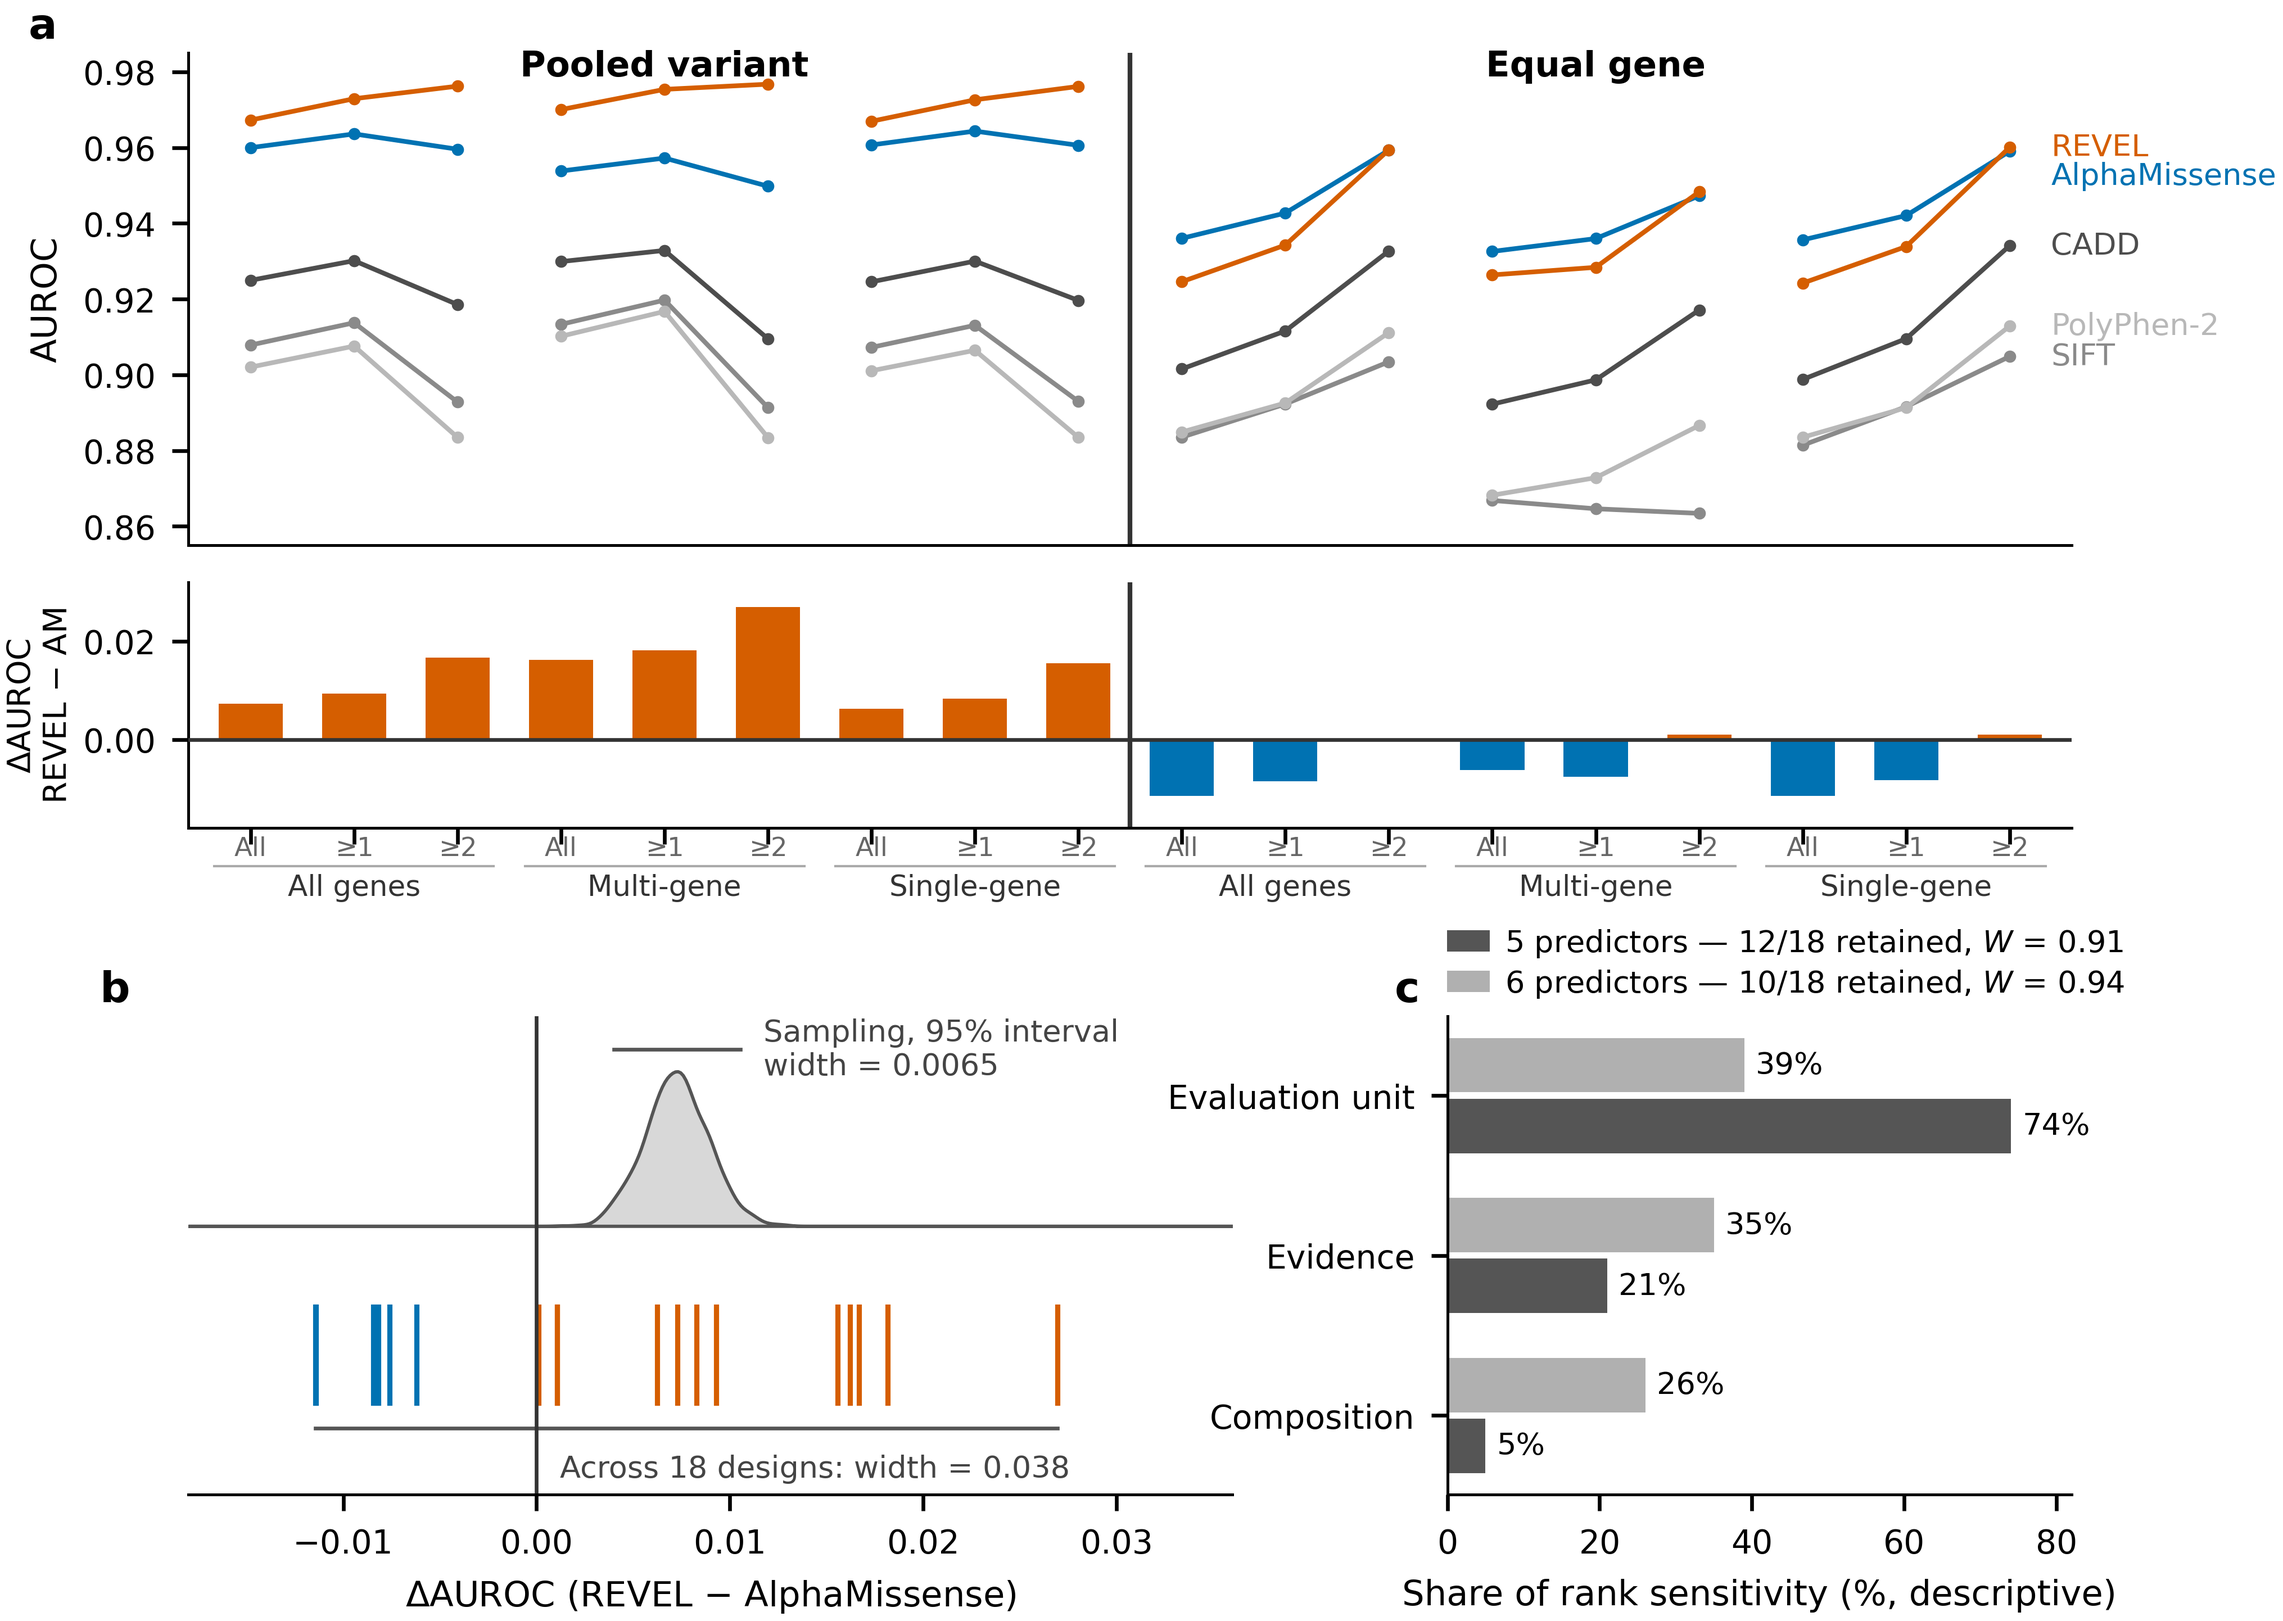
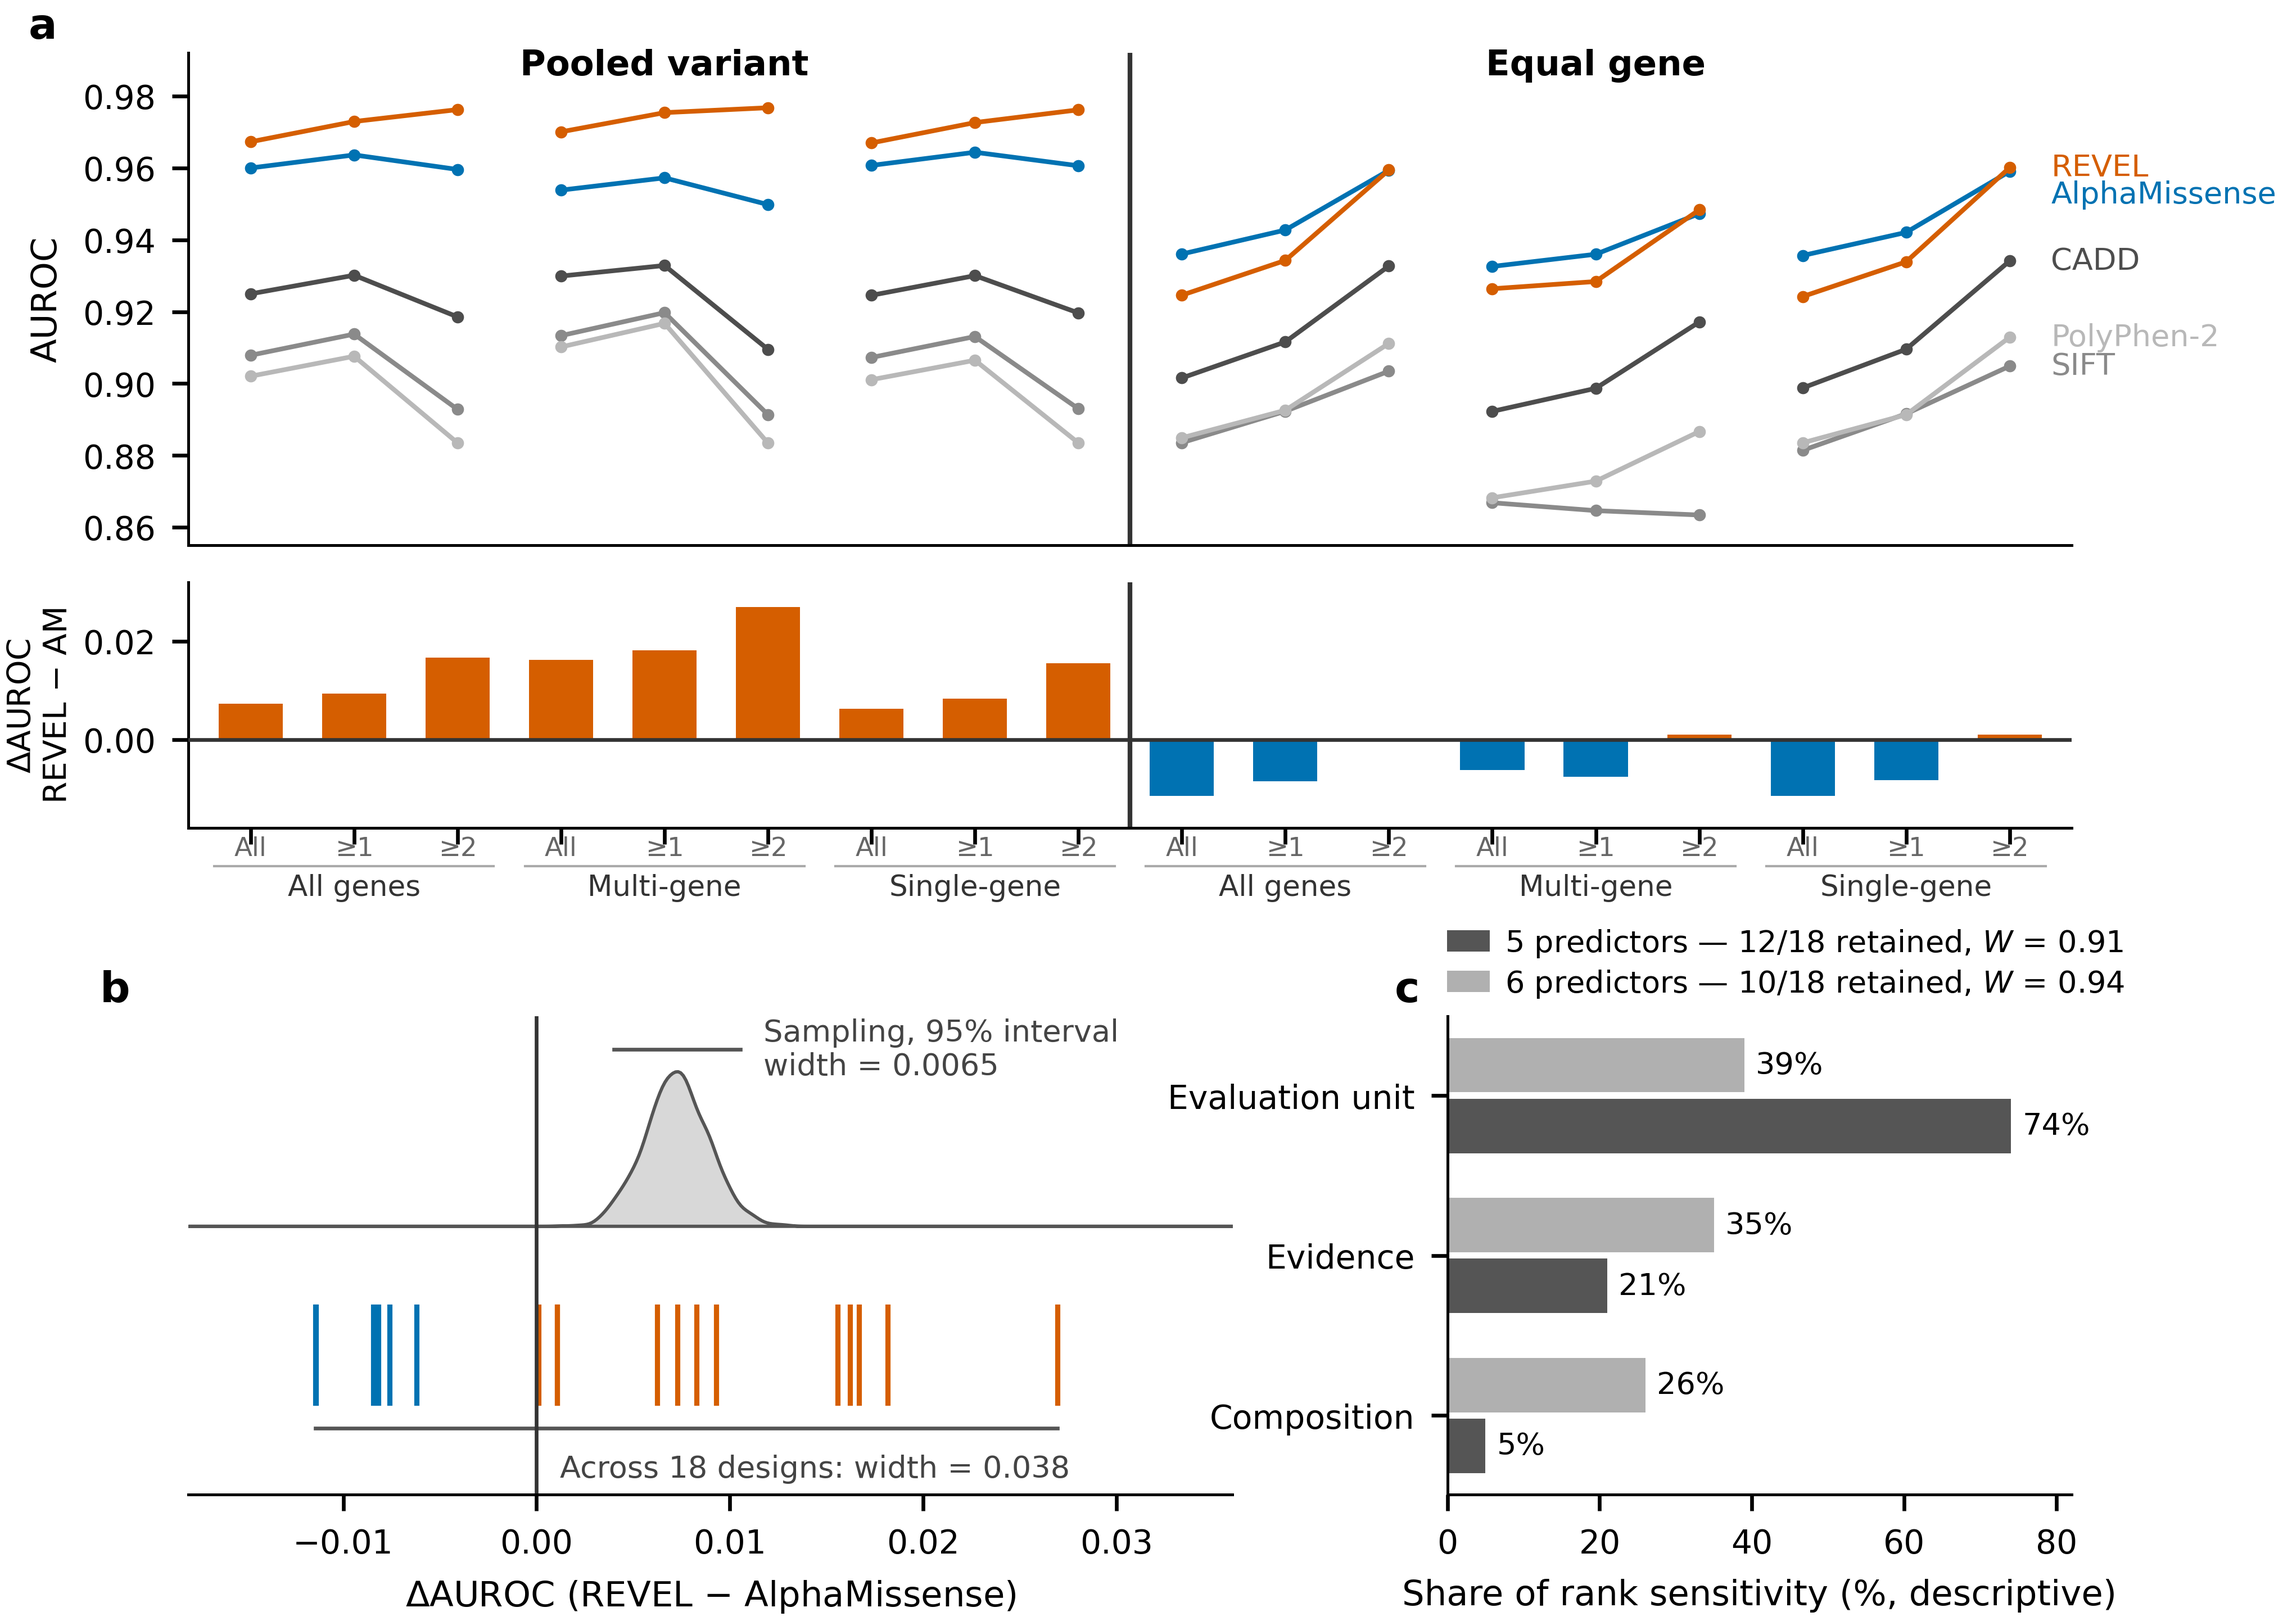
v1.0.2: figure layout fixes (labels, legends, line breaks); no plotted value changed

diff --git a/plot_fig2.py b/plot_fig2.py
@@ -58,10 +58,10 @@ for yv, p in placed:
     a1.annotate(p, xy=(18.4, yv), fontsize=6.5, va="center",
                 color=COLOUR[p], annotation_clip=False)
 a1.axvline(BOUND, color="#333333", lw=1.0)
-a1.set_ylabel("AUROC"); a1.set_xlim(0.4,18.6); a1.set_ylim(0.855,0.985)
+a1.set_ylabel("AUROC"); a1.set_xlim(0.4,18.6); a1.set_ylim(0.855,0.992)
 a1.set_xticks(g.x); a1.set_xticklabels([]); a1.tick_params(axis="x", length=0)
-a1.text(5.0, 0.979, "Pooled variant", ha="center", fontsize=7.5, weight="bold")
-a1.text(14.0, 0.979, "Equal gene",   ha="center", fontsize=7.5, weight="bold")
+a1.text(5.0, 0.986, "Pooled variant", ha="center", fontsize=7.5, weight="bold")
+a1.text(14.0, 0.986, "Equal gene",   ha="center", fontsize=7.5, weight="bold")
 for s in ("top","right"): a1.spines[s].set_visible(False)
 
 a2.bar(g.x, g.rev_minus_am, width=0.62,
